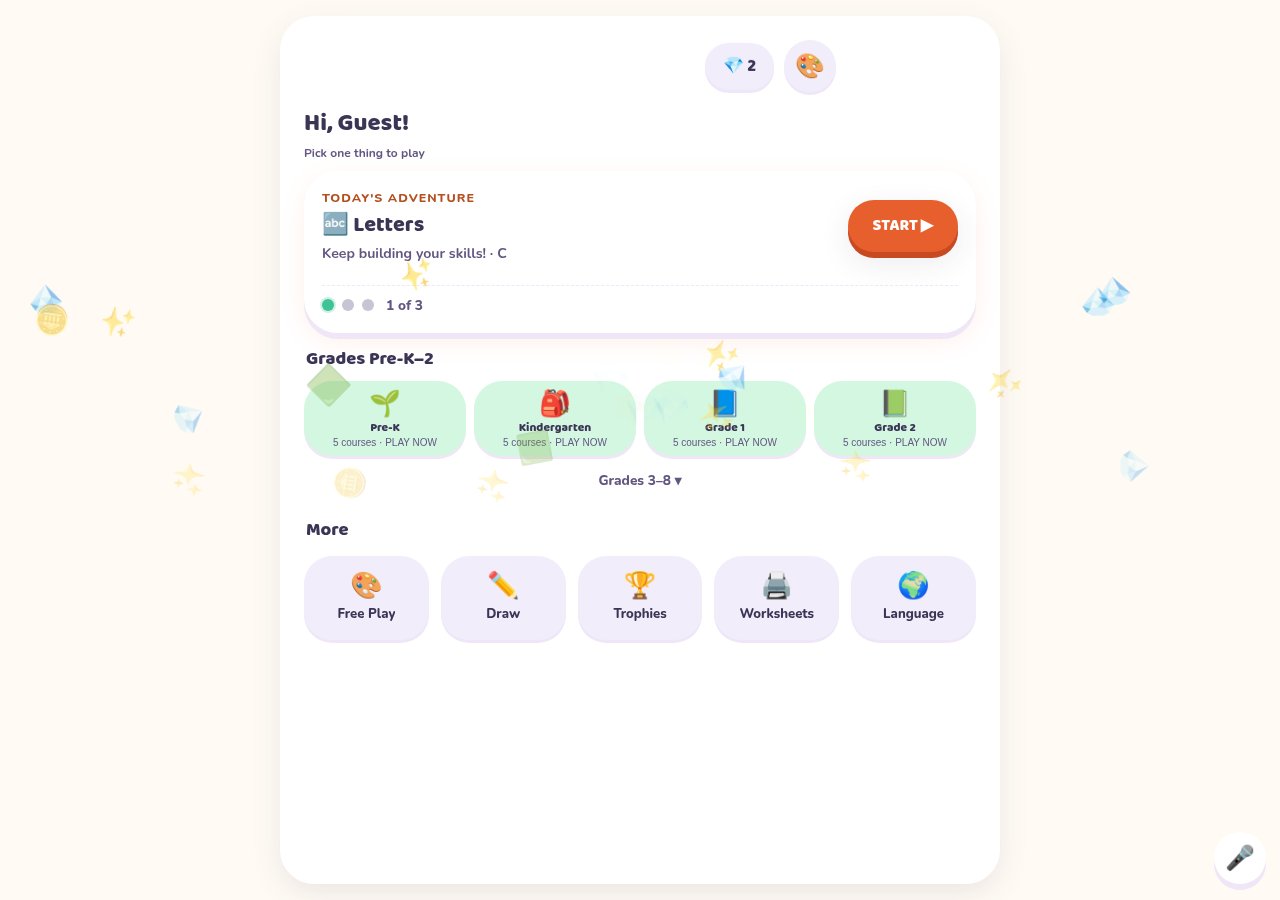
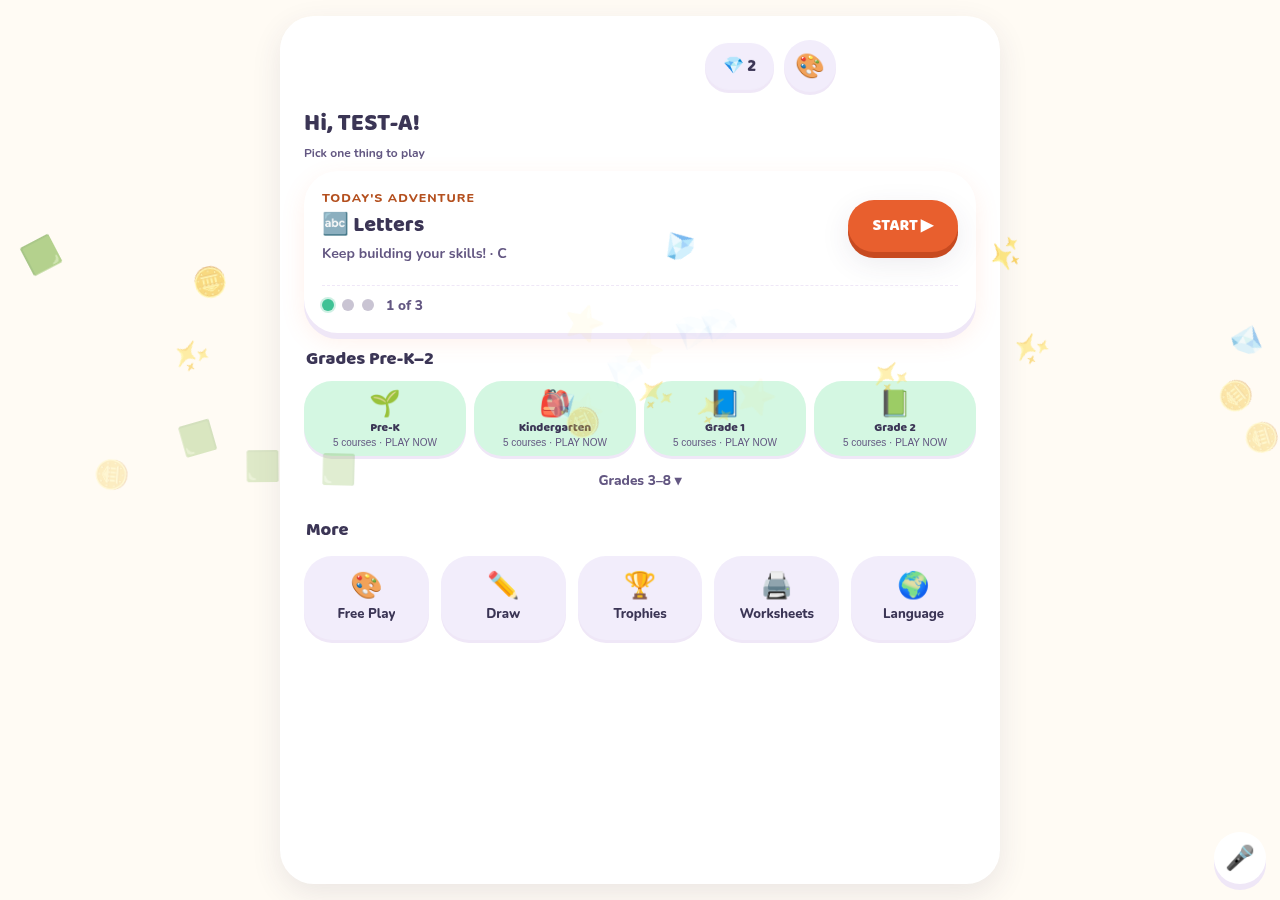
test: re-capture TEST-008 screenshots with verified TEST-A identity

diff --git a/OPENCODE-TEST-008-REPORT.md b/OPENCODE-TEST-008-REPORT.md
@@ -10,7 +10,7 @@ Issue: https://github.com/yanbing2026/kindergarten-classroom/issues/90
 | --- | --- |
 | Production URL | https://blockquest-classroom.pages.dev/ |
 | Observed app version | `v2-20261122-progress-flush` (read from deployed `APP_VERSION`) |
-| UTC test window | `2026-11-22T14:45:50.411Z` → `2026-11-22T14:45:54.499Z` (from attached `results.sanitized.json`) |
+| UTC test window | `2026-11-22T21:13:15.540Z` → `2026-11-22T21:13:19.866Z` (from attached `results.sanitized.json`) |
 | Timezone note | UTC timestamps from `Date().toISOString()`; runner local clock is US Eastern |
 | Browser | Google Chrome `157.0.8103.38`, headless, driven by `puppeteer-core` |
 | Device / viewport | `1280×900` headless desktop on Linux; **no mobile emulation, no physical hardware** |
@@ -42,14 +42,16 @@ Only method, host, path, HTTP status and duration were captured — **no headers
 
 - Total Worker responses: **21** = **14 application requests** (all HTTP 200) + **7 OPTIONS preflights** (HTTP 204).
 - Endpoints: `/salt` 3 POST, `/create` 1 POST, `/login` 2 POST, `/me` 3 GET, `/progress` 2 POST, `/events` 3 POST, plus the corresponding preflights.
-- Response duration range: **16–156 ms** (per-response values in `network.sanitized.json`).
+- Response duration range: **16–444 ms** (per-response values in `network.sanitized.json`).
 - No 4xx/5xx responses were observed during the final clean run.
 
 Authoritative machine-readable evidence: `test-reports/test008/results.sanitized.json` and `test-reports/test008/network.sanitized.json`. Their totals agree (21 = 14 + 7) and timestamps match.
 
 ## 5. Screenshots
 
-Under `test-reports/test008/`: `test008-01-baseline.png`, `test008-02-client-offline.png`, `test008-03-final.png`. Account chip/bar hidden and home greeting replaced with `TEST-A` at capture time only; no credentials or learner data appear.
+Under `test-reports/test008/`: `test008-01-baseline.png`, `test008-02-client-offline.png`, `test008-03-final.png`. All three visibly show **“Hi, TEST-A!”**. The account chip/bar was hidden and the home greeting was replaced with the synthetic alias **at capture time only** (no application behavior changed); no credentials, account identifiers or learner data appear.
+
+Identity evidence for the annotation: the test harness asserted `getCurrentAccount()` was non-empty immediately before each screenshot (`accountState: "signed-in"`) and recorded this in `results.sanitized.json` → `evidence.screenshot_context` for all three files. `evidence.baseline` records alias `TEST-A`, the redacted account-key prefix `kcqafail…`, and the starting values, tying the displayed state to the synthetic account used in scenarios A/D/E. (An earlier draft used a stale prefix check in the screenshot helper and produced `Hi, Guest!` images; that was corrected and the run repeated — the committed screenshots are from the corrected run.)
 
 ## 6. Incidental observation (out of TEST-008 scope, not fixed)
 
